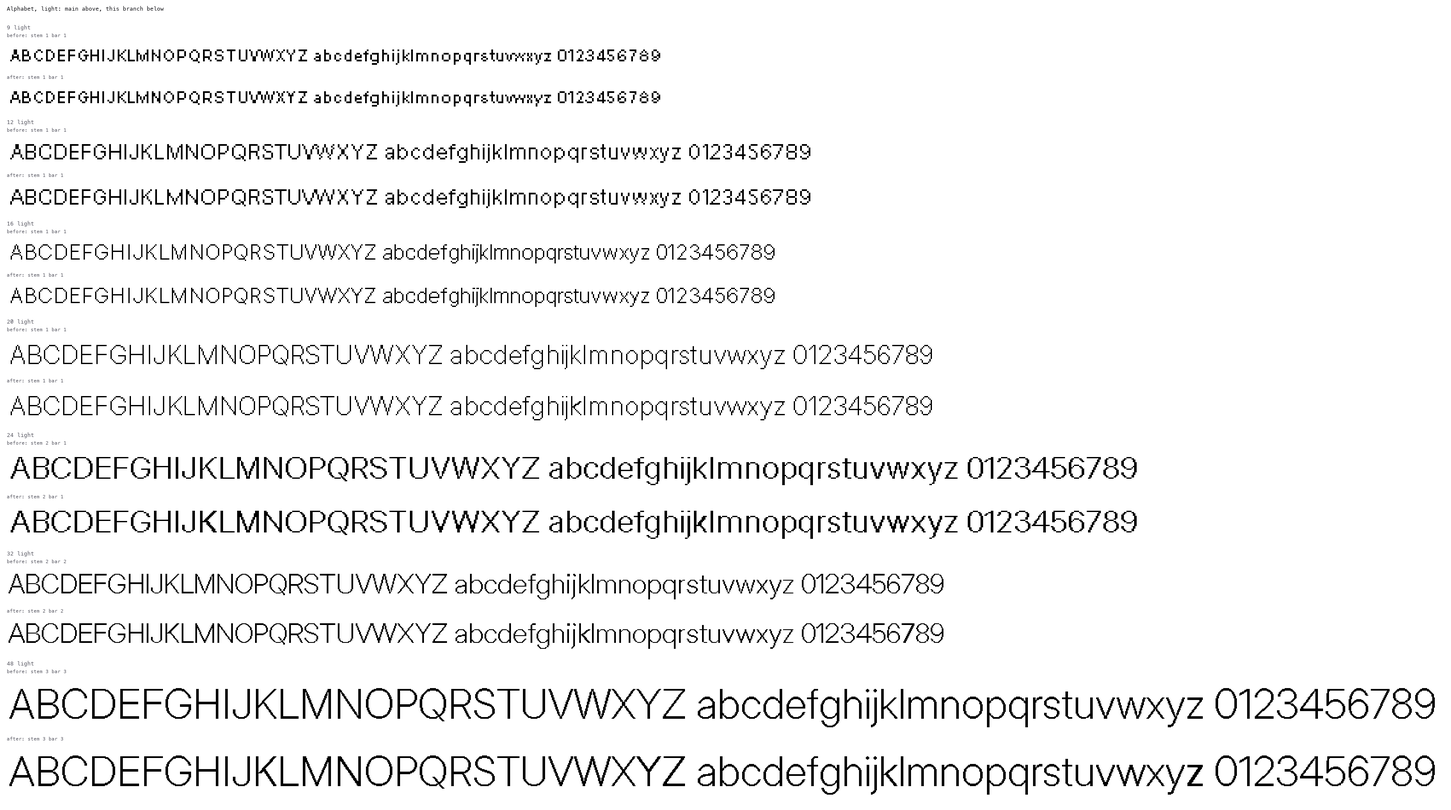
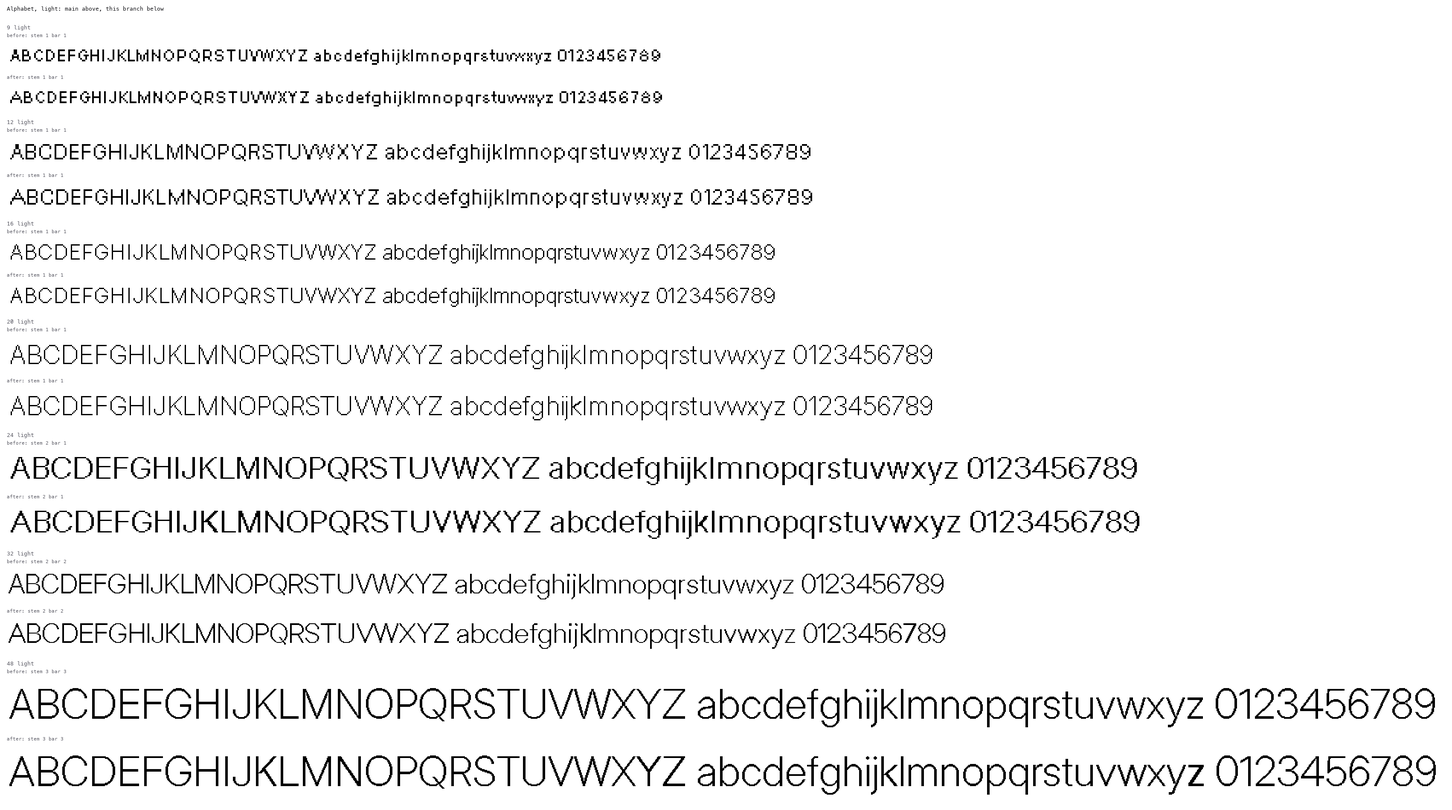
Make the A V v apex width change the importer default
A symmetric letter whose width minus its stroke is odd cannot have an
apex one stroke wide. --parity avv, which lets A, V and v change width
by a pixel there, is now the default; --parity off and --parity all
remain. W, w and M keep their widths: letting them change removed no
more doubled apexes on the trial grids and gave W 24 Regular an uneven
row.

Bold bars at 14 to 16 stay at the stem. The rule is unchanged.

The measures, sheets and proofs under experiments/straight-diagonals
are those of the regenerated drawings in the next commit. proof.py
takes several lines of text. The research note and docs/design.md
record the two decisions, the spacing measures, and that / and \ have
the side bearings they have on main.

diff --git a/experiments/straight-diagonals/proof.py b/experiments/straight-diagonals/proof.py
@@ -2,7 +2,8 @@
 
     .venv/bin/python experiments/straight-diagonals/proof.py \\
         --fonts before=PATH/build after=build --sizes 9,12,16,20,24,32,48 \\
-        --out experiments/straight-diagonals/img/proof-1x.png [--scale 4]
+        --out experiments/straight-diagonals/img/proof-1x.png [--scale 4] \\
+        [--text LINE [LINE ...]]
 
 Each `build` directory holds IntegerSans-VF.ttf and display/IntegerSansDisplay-VF.ttf;
 sizes of 25 and up come from the display family. Unhinted, as scripts/check.py
@@ -51,7 +52,7 @@ def main():
     ap.add_argument('--fonts', nargs='+', required=True)
     ap.add_argument('--sizes', default='9,12,16,20,24,32,48')
     ap.add_argument('--weights', default='light,regular,bold')
-    ap.add_argument('--text', default=TEXT)
+    ap.add_argument('--text', nargs='+', default=[TEXT], help='one or more lines; each is set from every font')
     ap.add_argument('--scale', type=int, default=1)
     ap.add_argument('--out', required=True)
     opt = ap.parse_args()
@@ -59,23 +60,24 @@ def main():
     for size in [int(s) for s in opt.sizes.split(',')]:
         for w in opt.weights.split(','):
             rows.append(f'{size} {w}')
-            for f in opt.fonts:
-                label, build = f.split('=', 1)
-                path = os.path.join(build, 'IntegerSans-VF.ttf') if size <= 24 else os.path.join(build, 'display', 'IntegerSansDisplay-VF.ttf')
-                face = freetype.Face(path)
-                face.set_var_design_coords((float(size), float(WGHT[w])))
-                face.set_pixel_sizes(0, size)
-                ink, gray = line(face, opt.text, size)
-                grays += int(gray.sum())
-                im = lib.plain(ink | gray, opt.scale)
-                if gray.any():
-                    px = im.load()
-                    for y, x in zip(*np.where(np.pad(gray, 2))):
-                        for dy in range(opt.scale):
-                            for dx in range(opt.scale):
-                                px[int(x) * opt.scale + dx, int(y) * opt.scale + dy] = (220, 0, 0)
-                rows.append([(label, im)])
-    print(lib.sheet(rows, opt.out, title=f'{opt.text!r} from the built fonts, FreeType unhinted, {opt.scale}x'))
+            for text in opt.text:
+                for f in opt.fonts:
+                    label, build = f.split('=', 1)
+                    path = os.path.join(build, 'IntegerSans-VF.ttf') if size <= 24 else os.path.join(build, 'display', 'IntegerSansDisplay-VF.ttf')
+                    face = freetype.Face(path)
+                    face.set_var_design_coords((float(size), float(WGHT[w])))
+                    face.set_pixel_sizes(0, size)
+                    ink, gray = line(face, text, size)
+                    grays += int(gray.sum())
+                    im = lib.plain(ink | gray, opt.scale)
+                    if gray.any():
+                        px = im.load()
+                        for y, x in zip(*np.where(np.pad(gray, 2))):
+                            for dy in range(opt.scale):
+                                for dx in range(opt.scale):
+                                    px[int(x) * opt.scale + dx, int(y) * opt.scale + dy] = (220, 0, 0)
+                    rows.append([(label, im)])
+    print(lib.sheet(rows, opt.out, title=f"{' | '.join(opt.text)} from the built fonts, FreeType unhinted, {opt.scale}x"))
     print('gray pixels:', grays)
 
 

diff --git a/scripts/import-inter.py b/scripts/import-inter.py
@@ -38,8 +38,9 @@ is drawn from it:
   round     a round stroke is the stem at its sides and the bar at its top
             and bottom; the erosion takes it down to those.
 
---parity avv|all lets A V v (or those and W w M) change width by a pixel so
-an apex is exactly one stroke wide; it is off by default.
+A V v change width by a pixel where that makes the apex exactly one stroke
+wide (--parity avv, the default). --parity all lets W w M do the same;
+--parity off keeps every width.
 """
 import argparse
 import collections
@@ -73,8 +74,8 @@ args.add_argument('--weights', default='light,regular,bold')
 args.add_argument('--charset', default=os.path.join(HERE, '..', 'charset.txt'))
 args.add_argument('--out', default=os.path.join(HERE, '..', 'glyphs'))
 args.add_argument('--no-derive', action='store_true', help='skip the derivation stage (shared parts, accents)')
-args.add_argument('--parity', default='off', choices=('off', 'avv', 'all'),
-                  help='let A V v (avv) or A V v W w M (all) change width by a pixel for an apex one stroke wide')
+args.add_argument('--parity', default='avv', choices=('off', 'avv', 'all'),
+                  help='let A V v (avv, the default) or A V v W w M (all) change width by a pixel for an apex one stroke wide; off keeps every width')
 args.add_argument('--no-redraw', action='store_true', help='skip the fixed-step redraw of the diagonal letters')
 args.add_argument('--no-bars', action='store_true', help="leave the bars at the source's own thickness")
 opt = args.parse_args()

diff --git a/docs/research/2026-11-26-straight-diagonals.md b/docs/research/2026-11-26-straight-diagonals.md
@@ -175,16 +175,16 @@ Ranked after those: (v) as a cheap partial step if the heavier diagonals are acc
 
 ## Outcome
 
-Built into the importer after the research above: option (i) as a stage after the erosion (`scripts/diagonals.py`), a stroke table per instance, and option (ii) as `--parity avv|all`, off by default. All 42 grids were regenerated with parity off. Numbers compare `main` at 9eb8f34 with the regenerated drawings.
+Built into the importer after the research above: option (i) as a stage after the erosion (`scripts/diagonals.py`), a stroke table per instance, and option (ii) as `--parity`, with `avv` (A, V, v only) the default. All 42 grids were regenerated with it. Numbers compare `main` at 9eb8f34 with the regenerated drawings; where a third number is given it is the same redraw with parity off, the state of this branch before the default was chosen.
 
 ### What was built
 
-- Redraw. `A V v W w X x Y y K k M N Z z 7 / \` are drawn again from their strokes after the erosion. Stroke ends, bar rows and feet come from the hinted render. 2083 drawings were redrawn. In 52 the redraw was refused and the eroded drawing stayed.
+- Redraw. `A V v W w X x Y y K k M N Z z 7 / \` are drawn again from their strokes after the erosion. Stroke ends, bar rows and feet come from the hinted render. 2085 drawings were redrawn. In 52 the redraw was refused and the eroded drawing stayed.
 - A redraw is taken only when it is one piece, fills the same box, keeps the same counters, is no lighter, and is no less straight than the eroded drawing. That last test is what keeps K from getting worse.
 - `<` and `>` are not redrawn. The recipe was built and removed: it made `<` 24 Regular less even than the erosion does.
 - Diagonal thickness. A stroke leaning s columns a row is stamped stem × √(1 + s²) wide along the row, in whole pixels and never under the stem, so it is as thick across as a stem. Two strokes that cross (X, x) may be 0.6 px thinner across.
 - Bars. Bold bars equal the stem where x-height ≥ 3 × stem + 2 × max(1, stem − 1): three bars and two counters, each counter at least a row and at least the bar less one. That holds at 14, 15 and 16 rows only, where the bar goes from 1 to 2 px. At 7 to 13 the counters of e, a, s would close. From 17 up the rule does not hold either, and the bar is the source's own, one under the stem (two under at 33 to 36).
-- Parity. With `--parity avv`, A, V and v change width by 1 px when width minus stroke is odd. With `--parity all`, W, w and M may too, but only when no stroke gets thinner for it.
+- Parity. A, V and v change width by 1 px when width minus stroke is odd, so the apex is one stroke wide. This is `--parity avv`, the default. With `--parity all`, W, w and M may too, but only when no stroke gets thinner for it. `--parity off` keeps every width.
 
 ### Straightness
 
@@ -193,26 +193,38 @@ Built into the importer after the research above: option (i) as a stage after th
 | | edges | bent | | kinks | uneven | back | thin rows | drawings with a bent edge |
 |---|---|---|---|---|---|---|---|---|
 | main | 1270 | 418 | 32.9% | 88 | 150 | 21 | 445 | 179 |
-| this branch | 1241 | 140 | 11.3% | 20 | 16 | 3 | 22 | 68 |
+| this branch | 1243 | 140 | 11.3% | 20 | 16 | 3 | 22 | 68 |
 
 All 42 grids, 2520 drawings:
 
 | | edges | bent | | kinks | uneven | back | thin rows | drawings with a bent edge |
 |---|---|---|---|---|---|---|---|---|
 | main | 6468 | 3157 | 48.8% | 502 | 1048 | 75 | 3264 | 1296 |
-| this branch | 6295 | 971 | 15.4% | 59 | 174 | 7 | 58 | 434 |
+| this branch | 6297 | 971 | 15.4% | 59 | 174 | 7 | 58 | 434 |
+
+Parity changes none of these counts: with it off the rows are the same but for the edge totals (1241 and 6295).
 
 Bent edges by letter on the ten grids, main then this branch: A 30, 0. V 28, 0. v 16, 0. W 52, 2. w 34, 2. X 24, 0. x 28, 4. Y 10, 0. y 36, 19. K 7, 0. k 6, 3. M 26, 0. N 10, 0. Z 12, 9. z 9, 6. 7 2, 1. `/` 0, 0. `\` 0, 0. `<` 39, 43. `>` 49, 51.
 
 - 94 of the 140 bent edges left on the ten grids are `<` and `>`, which are not redrawn. They are 4 and 2 worse than main. I did not trace which sizes.
 - y keeps a bend where the stroke meets the hook. Z and z keep some where the diagonal meets the bars.
-- The audit from `plan-hand-drawn`, printable ASCII, 11,844 drawings: hard kinks 923 to 104, diagonal glyphs with uneven steps 1080 to 223, N Z z not point-symmetric 283 to 173.
+- The audit from `plan-hand-drawn`, printable ASCII, 11,844 drawings: hard kinks 923 to 104, diagonal glyphs with uneven steps 1080 to 229 (223 with parity off), N Z z not point-symmetric 283 to 173.
 
 ### Doubled apex
 
-End row of A, V, v wider than a leg, of 378 drawings: 202 on main, 190 with parity off. Parity off does not fix it. On the eight grids of the parity sheets (9, 10, 12, 16, 20, 24, 32, 48), of 72: 32 with parity off, 5 with `avv` or `all`. The 5 are at 7 to 12 rows.
+End row of A, V, v wider than a leg, of 378 drawings (42 grids, three weights, `compare.py`):
 
-Cost on those eight grids: `avv` changes 105 advances, all 1 px wider (A 13, V 5, v 9, and the six accented A 13 each). `all` changes 118 (those, and W 7 wider and 2 narrower, w 4 wider).
+| | all | Light | Regular | Bold | A | V | v |
+|---|---|---|---|---|---|---|---|
+| main | 202 | 65 | 63 | 74 | 72 | 61 | 69 |
+| redraw, parity off | 190 | 67 | 61 | 62 | 63 | 60 | 67 |
+| this branch (`avv`) | 24 | 7 | 7 | 10 | 4 | 6 | 14 |
+
+The redraw alone does not fix it; the width change does. The 24 left: v at 7, 8 and 11 in every weight and at 13 and 14 Light and Regular, V at 9 and 12 Light and Regular, A at 8 and 9 Bold, and in Bold v 44, V 45, A 46, V 46, A 47. I did not trace why each of those stays.
+
+On the eight grids of the parity sheets (9, 10, 12, 16, 20, 24, 32, 48), of 72: 37 on main, 32 with parity off, 5 with `avv` or `all`.
+
+Cost: 171 of the 378 A V v drawings are 1 px wider (A 61, V 56, v 54), and so are the six accented A, 61 each: 537 advances, none narrower. The ink grows with the advance, so the side bearings of A, V and v are the same as on main in all 378. By band, A V v only: 9 at 7-12, 14 at 13-16, 38 at 17-24, 110 at 25-48. On the eight sheet grids `avv` changes 105 advances and `all` 118 (those, and W 7 wider and 2 narrower, w 4 wider).
 
 ### Weight consistency
 
@@ -221,49 +233,66 @@ Cost on those eight grids: `avv` changes 105 advances, all 1 px wider (A 13, V 5
 | | stem | bar | diagonal | round | density | diagonal under stem | bar under stem | any |
 |---|---|---|---|---|---|---|---|---|
 | main, Light | 49 | 153 | 96 | 302 | 73 | 96 | 221 | 621 |
-| branch, Light | 40 | 154 | 46 | 302 | 99 | 25 | 222 | 586 |
+| branch, Light | 34 | 154 | 46 | 302 | 104 | 25 | 222 | 586 |
 | main, Regular | 47 | 167 | 176 | 176 | 69 | 176 | 565 | 590 |
-| branch, Regular | 32 | 168 | 49 | 176 | 81 | 34 | 570 | 471 |
+| branch, Regular | 30 | 168 | 49 | 176 | 81 | 34 | 570 | 466 |
 | main, Bold | 36 | 165 | 322 | 212 | 47 | 322 | 983 | 700 |
-| branch, Bold | 29 | 154 | 100 | 208 | 53 | 65 | 898 | 487 |
+| branch, Bold | 29 | 154 | 104 | 208 | 48 | 65 | 899 | 486 |
 
 Glyphs with any deviating stroke, by size band, main then this branch:
 
 | | 7-12 | 13-16 | 17-24 | 25-48 |
 |---|---|---|---|---|
-| Light | 56, 50 | 11, 16 | 50, 57 | 504, 463 |
-| Regular | 56, 50 | 12, 15 | 67, 70 | 455, 336 |
-| Bold | 85, 82 | 20, 16 | 75, 58 | 520, 331 |
+| Light | 56, 53 | 11, 14 | 50, 54 | 504, 465 |
+| Regular | 56, 48 | 12, 13 | 67, 69 | 455, 336 |
+| Bold | 85, 80 | 20, 13 | 75, 58 | 520, 335 |
 
 - Diagonals thinner than the stem: 594 glyphs to 124.
 - Bold bars under the stem at 13 to 16: 115 glyphs to 30. The 30 are at 13 rows, which has no room.
 - Not improved: round strokes (690 to 686) and bars (485 to 476). The erosion still takes the top and bottom of a round letter a row under the bar at large sizes. That is most of the 25-48 column.
-- Worse: density deviations, 189 to 233. Light and Regular at 13 to 24 went up by a few glyphs in the `any` column too. A diagonal rounded up to a whole pixel is darker than its neighbours where it used to be lighter.
+- Worse: density deviations, 189 to 233 (Light 73 to 104, Regular 69 to 81, Bold 47 to 48). Light and Regular at 13 to 24 went up by a few glyphs in the `any` column too. A diagonal rounded up to a whole pixel is darker than its neighbours where it used to be lighter.
+- With parity off the `any` column was 586, 471 and 487 and density 99, 81 and 53: the width change moves a handful of glyphs each way and the totals stay (any 1544 to 1538, density 233 and 233).
 - Full tables per instance, with the worst glyphs named: `weight-main.txt` and `weight.txt`.
 
 ### Cost
 
-- 3880 of 29,862 drawings changed, 72,507 pixels. By band: 7-12 393, 13-16 868, 17-24 632, 25-48 1987. By weight: Light 1092, Regular 1106, Bold 1682. Ink 3,356,091 to 3,387,600 pixels.
-- 43 advances changed, none on a redrawn letter. They come from the bar refit at 14 to 16 Bold, where the hinter rounds a few letters another way (S, r, t, $, µ, æ, œ and accented forms). The list is in `compare.txt`.
-- Import time: 6 min 46 s for the 42 grids (405 s of user time; the last full run before this change took 412 s).
-- The audit also moved the wrong way on three lines: glyphs with a blob wider than the stroke 251 to 727, top-bottom asymmetric 75 to 114, one-pixel dents 2522 to 2683. I did not trace them. The joins of the redrawn letters (apex, vertex, where two strokes meet) are the likely place.
+- 3894 of 29,862 drawings changed, 85,671 pixels. By band: 7-12 393, 13-16 882, 17-24 632, 25-48 1987. By weight: Light 1099, Regular 1113, Bold 1682. Ink 3,356,091 to 3,387,346 pixels. (Parity off: 3880 drawings, 72,507 pixels.)
+- 580 advances changed. 537 are the parity change: A, V, v and the six accented A, 1 px wider. The other 43 are on no redrawn letter (28 wider, 15 narrower by 1 px). They come from the bar refit at 14 to 16 Bold, where the hinter rounds a few letters another way (S, r, t, $, µ, æ, œ and accented forms). The list is in `compare.txt`.
+- Import time: 6 min 46 s for the 42 grids (405 s with parity off, 406 s with `avv`; the last full run before this change took 412 s).
+- The audit also moved the wrong way on three lines: glyphs with a blob wider than the stroke 251 to 716, top-bottom asymmetric 75 to 114, one-pixel dents 2522 to 2687. I did not trace them. The joins of the redrawn letters (apex, vertex, where two strokes meet) are the likely place.
 
 ### Guarantees from the two earlier importer changes
 
 Unchanged: colon and semicolon built from the period and comma in 126 of 126 files, accented letters whose base differs 0 of 6174, 1 accent touching its letter (Ü at 7 rows), at most 1 row of ink above the ascent. Drawings above the ascent: 108 in 39 files before, 112 in 38 after. Drawings in more pieces than at 40 Regular: 84 before and after.
 
+### Spacing
+
+The width change moves advances, so the spacing was measured and looked at.
+
+- Side bearings. In all 378 A V v drawings both bearings are what they are on main. Where the letter is wider, the ink and the advance grew by the same pixel.
+- Least white gap on a shared row between A, V or v and each of A-Z a-z 0-9, both orders, 46,872 pairs over the 126 instances, main to this branch: same in 40,077, 1 px wider in 3493, 2 px wider in 52, 1 px closer in 3237, 2 or 3 px closer in 13. Pairs that touch: 1196 on main, 1302 here; 111 touch here and not on main: 76 at 7 to 12 rows, 33 in Bold above that (`kv` 16, `KV` 10), 2 in Regular. With parity off it was 1308 and 117: the closer pairs come from the redraw, whose legs run to the corners of the box, not from the width change.
+- From the built fonts (FreeType), the width in pixels of `AVAVA vavav WAVY wavy MIXTAPE KNOX Hamburgefonstiv`, main to this branch: 10 px 306 to 306 and Bold 336 to 336; 12 px 351 to 356, Bold 386 to 399; 16 px 456 to 456, Bold 474 to 480; 20 px 570 to 580, Bold 604 to 609; 24 px 674 to 684, Bold 710 to 718; 32 px 869 to 869, Bold 932 to 945. The 16 Bold figure includes the bar refit's advances.
+- In those lines `AV` and `VA` are 1 px further apart than on main at 12 Bold, 16, 20, 24 Regular and 32 Bold, and 1 px closer at 10 px, where no advance changed. `av` and `Av` are 1 px closer at 10 px (2 to 1) and `va`, `av` at 12 Bold (2 to 1). The font has no kerning, on main or here.
+
+`proof-1x.png` and `proof-4x.png` set that line and `Vav Ava Avo Tav` at 10, 12, 16, 20, 24 and 32 px, Regular and Bold, main above this branch. What I saw: from 12 px up the lines are a few pixels longer and read as evenly spaced as main's; I could not pick out a pair that looks wrong. At 10 px Bold the A V v pairs are visibly tighter than on main (`Vav Ava` nearly closes up inside the words); that is the redraw, and it is the same with parity off.
+
+### `/` and `\`
+
+Set side by side in the diagonal sheets, `/\` reads as one `Λ` at 12, 24 and 32 Bold. That is not from this branch. The advance and both side bearings of `/` and `\` are the same as on main in all 126 instances, in the drawings and in the built fonts at the six proof sizes. On main the two already touch at the top: 93 of the 126 instances have no white column between the top of `/` and the top of `\` (at 12, 24 and 32 Bold both bearings are 0), and the same 93 here. The source draws the slash with almost no side bearing. The one difference is 22 Light, where the least gap went from 2 to 1 with unchanged bearings. Nothing was changed for this.
+
 ### Pictures
 
-Main above, this branch below.
+Main above, this branch below. The diagonal, alphabet, bar and proof sheets show the committed drawings (parity `avv`). The three parity sheets are the trial on eight grids that the default was chosen from; their middle rows are the committed drawings at those grids.
 
 ![diagonal letters, bold](../../experiments/straight-diagonals/img/diag-bold.png)
 ![diagonal letters, regular](../../experiments/straight-diagonals/img/diag-regular.png)
 ![proof line from the built fonts, 4x](../../experiments/straight-diagonals/img/proof-4x.png)
 ![bold bars at 14 to 16](../../experiments/straight-diagonals/img/bars-bold.png)
+![the two proof lines from the built fonts, 1x](../../experiments/straight-diagonals/img/proof-1x.png)
 ![parity off, A V v, all: bold](../../experiments/straight-diagonals/img/parity-bold.png)
 ![parity off, A V v, all: regular](../../experiments/straight-diagonals/img/parity-regular.png)
 
-Also in `img/`: `diag-light.png`, `alpha-light.png`, `alpha-regular.png`, `alpha-bold.png`, `proof-1x.png`, `parity-light.png`.
+Also in `img/`: `diag-light.png`, `alpha-light.png`, `alpha-regular.png`, `alpha-bold.png`, `parity-light.png`.
 
 What I saw in them:
 
@@ -273,17 +302,25 @@ What I saw in them:
 - Bold at 14 to 16 is plainly heavier than on main: every bar doubled. The counters of e, a, s stay open. 16 Bold now has bars at the stem and 17 Bold has them one under.
 - At 32 and 48 Regular, X, x, K and k look a little heavier than on main. The measure says they are now at the stem, where they were under it.
 - With `--parity all`, W 24 Regular has one row a pixel wider than its neighbours near the feet.
+- `/\` reads as one `Λ` shape in the Bold diagonal sheet, on main's row as much as on this branch's.
+- These notes are from the sheets as drawn with parity off, apart from the last and the proofs under Spacing. After the regeneration with `avv` I looked at the two proofs and at the Regular and Bold diagonal sheets from 9 to 20: in Regular, A has a single apex at 9, 12, 16 and 20, and V at 9 and 12 keeps a foot two pixels wide, as the count above says.
+
+### Decided
+
+- Apex parity: A, V, v only (`--parity avv`), and it is the importer's default, not an option to remember. It takes the doubled apex from 190 of 378 to 24 (32 of 72 to 5 on the sheet grids). `all` removes no more on those grids and adds the uneven row in W 24 Regular. `off` and `all` stay as values of the flag.
+- Bold bars at 14 to 16 stay at the stem, 2 px. The request was for weight that is consistent across the characters of one size and weight, and a bar under the stem is the inconsistency inside those three instances. The rule is as built.
 
 ### Open
 
-- Parity: off, A V v only, or all. The sheets are `parity-light.png`, `parity-regular.png` and `parity-bold.png`.
-- Whether Bold bars at the stem at 14 to 16 is the wanted reading of "one pixel tall bolds". From 17 up the rule does not hold: the stem grows faster than the x-height.
 - Bold bars at 33 to 36 are 3 px against a 5 px stem, where 31, 32 and 37 are one under. Not changed here.
+- From 17 up the Bold bar is one under the stem: the rule does not hold there, because the stem grows faster than the x-height.
+- 10 px Bold is tight around A, V, v after the redraw (see Spacing).
 
 ### Not verified
 
 - A browser. The proof lines are FreeType renders of the built fonts, not Chrome or Safari.
-- Spacing after the 43 advance changes and under either parity mode: only the proof line and the sheets.
-- The parity modes were run on eight grids, not built into fonts, and not run through `scripts/check.py`.
-- I looked at the Bold and Regular diagonal sheets, the Bold and Regular alphabet sheets in part, the 4x proof to 16 px, the Bold bar sheet and the Bold parity sheet at 9 to 12. I did not look closely at the Light sheets, the 1x proof, or the sheets above 32 px in Bold.
+- Spacing beyond the two proof lines, the gap counts above and the sheets. No running text was set, and the 43 advances of the bar refit were not looked at one by one.
+- The 4x proof was looked at reduced (two to four screen pixels to one), the 1x proof at full size. After the regeneration I looked at the Regular and Bold diagonal sheets at 9 to 20 only. The Light sheets, the alphabet and parity sheets and the sizes above 20 were not looked at again.
+- Why 24 A V v drawings keep an apex wider than a leg.
+- `--parity all` and `--parity off` as built fonts: `all` was run on eight grids only; `off` was the previous state of this branch, built and checked then.
 - `weight.py` was not checked letter by letter against pictures. Its round and bar counts at 25 to 48 may include strokes it misreads.

diff --git a/docs/design.md b/docs/design.md
@@ -68,7 +68,7 @@ The source is a variable font with weight and optical-size axes, so a drawing pe
 4. **Pixel-perfect strokes at every thickness.** A monochrome rasterizer lights surplus pixels wherever a curve or diagonal crosses the grid: for a one-pixel stroke the "doubles" that pixel artists remove by hand, for a bold stroke rows of three where the stem is two. The importer renders the same hinted outline in grayscale and erodes: ink pixels are dropped in order of least coverage while they are not a stroke end, touch background orthogonally, their remaining ink neighbours stay one 8-connected group, and they are surplus to the thickness. Thickness is two numbers, the vertical stem *k* and the horizontal bar *h* (the source draws bars thinner; *h* is read off the rendered `H`), and which one applies depends on the stroke's local direction: on a steep section a pixel is surplus when its horizontal run exceeds *k*, on a shallow one when its vertical run exceeds *h*. Snapped stems and bars sit at full coverage and are never candidates, so they define the thickness and the curves are eroded down to meet them: at 20px Bold the `o` has three-pixel sides and a two-pixel crown.
 5. **Symmetry.** The hinter snaps each stem on its own and the thinning breaks ties by scan order, so the two sides of an `A` or `O` would take different staircases. Glyphs that the source draws mirror-symmetric (`A H I M O T U V W X Y i l o v w x 0 8` and the accented forms of those, left-right; `H I O X o x 0` and the paired brackets, top-bottom) are mirrored about their own ink box: a disagreeing pixel pair is set from its mean coverage, a crossing on an even width is filled, and a full-width bar facing an empty row, the `H` on an even cap, is the one thing left alone, because it cannot be centred. The accented `a` and `u` are not on the list: their base letters are not symmetric, and mirroring them turned every `ä â å ü û` into a letter of its own. The thinning then removes pixels in whole mirror orbits, and a symmetric glyph is centred in its advance.
 6. **One piece.** Clearing both pixels of a low-coverage pair can empty a row of a thin diagonal, and clearing a whole orbit can cut an apex, so neither pass may change how many pieces a drawing has. A mirror pass that would is redone as a union, inking every disagreeing pair; that also keeps a one-pixel dot off the axis, a colon's or a dieresis's, which the plain pass deleted. The thinning clears an orbit one pixel at a time and puts it back if a pixel's ink neighbours would fall into two groups, a test on the 3×3 ring around the pixel, so it costs nothing. A drawing still in more pieces than the outline has at four times the grid is joined at the best-covered clear pixel that touches two of them. The full import of grids 7 to 48 takes as long as it did, about seven minutes.
-7. **Straight diagonals.** The erosion tests one pixel at a time and cannot see a slope, so the diagonals it leaves take uneven steps: a run of three rows beside a run of one reads as a change of angle. After it, `A V v W w X x Y y K k M N Z z 7 / \` are drawn again from their strokes. Each stroke is a line between its two ends whose steps are as even as whole pixels allow, at the diagonal thickness from the stroke table; the ends, the bar rows and the feet are read from the hinted render, and one side of a symmetric letter is drawn and mirrored. Where a letter has no room for every stroke at full thickness, the inner strokes of `W` and `w` give way first. A redraw replaces the eroded drawing only when it is one piece, fills the same box, keeps the same counters, is no lighter, and is no less straight; otherwise the eroded drawing stays, which happens in 52 of 2135 cases, mostly at 7 to 10 rows. `<` and `>` are left to the erosion: their redraw was less even than what the erosion gives. The letter's width does not change. An option, `--parity avv` or `--parity all`, off by default, lets `A V v` (or those and `W w M`) change width by one pixel so that an apex is exactly one stroke wide: a symmetric letter whose width minus its stroke is odd cannot have one otherwise.
+7. **Straight diagonals.** The erosion tests one pixel at a time and cannot see a slope, so the diagonals it leaves take uneven steps: a run of three rows beside a run of one reads as a change of angle. After it, `A V v W w X x Y y K k M N Z z 7 / \` are drawn again from their strokes. Each stroke is a line between its two ends whose steps are as even as whole pixels allow, at the diagonal thickness from the stroke table; the ends, the bar rows and the feet are read from the hinted render, and one side of a symmetric letter is drawn and mirrored. Where a letter has no room for every stroke at full thickness, the inner strokes of `W` and `w` give way first. A redraw replaces the eroded drawing only when it is one piece, fills the same box, keeps the same counters, is no lighter, and is no less straight; otherwise the eroded drawing stays, which happens in 52 of 2137 cases, mostly at 7 to 10 rows. `<` and `>` are left to the erosion: their redraw was less even than what the erosion gives. A redrawn letter keeps its width, with one exception, the apex of `A V v`. A symmetric letter whose width minus its stroke is odd cannot have an apex one stroke wide: the point comes out doubled, two strokes side by side. Where that is so, `A`, `V` and `v` are drawn one pixel wider (or narrower, when that gives the more even steps; in the committed drawings it is always wider) and the advance moves with the ink, so both side bearings stay. That is `--parity avv`, the importer's default. It widens 171 of the 378 `A V v` drawings, and the six accented `A` with their base, and leaves 24 with an apex wider than a leg (202 before any redraw), at 7 to 14 rows and in Bold at 44 to 47; why those 24 stay was not traced. `--parity all` lets `W w M` change width the same way and is not the default: it removes no more doubled apexes on the grids it was tried on and gives `W` 24 Regular an uneven row near the feet. `--parity off` keeps every width.
 8. **Shared parts.** Letters that share a part are derived from one master after rendering, so a size cannot draw two versions of one bowl: `d` is `b` mirrored, `p` is `b`'s bowl flipped over `p`'s own descender, `q` is that `p` mirrored, `h` is `n`'s arch on `h`'s own stem, and `u` is `n` turned. Each derived letter keeps its own left bearing and its advance moves only by the change in ink width. Every accented Latin-1 letter is its base letter's drawing with the accent from its own render set over it, moved with the body's centre, so `é` is always `e`. `ì í î ï` are `i`'s stem with the accent in place of the dot; those four keep their own advance and the stem goes where they rendered it, because their accents are wider than `i`, the hinter gives them another advance than `i`'s at about half the sizes, and on `i`'s advance they ran into `f l b k d` twice as often. An accent with no clear row between it and its letter goes up one row, and may leave the line box to do it: by one row over the ascent and never more. One row is always enough, because the accent is whatever lies above the letter's top row, and it is never more than one row out, because the ascent is the tallest render. An accent that already has its clear row is not moved, so the rule changes nothing from 24 rows up. The drawings that end a row over the ascent are the capital accents at 7, 8 and 11 rows and the ring of `Å` at 9 to 23: 112 of them, in 38 of the 126 grid-and-weight files. The line box does not grow for them. A file's header gives the rows as `above`, and its bitmaps are that many rows taller than ascent plus descent. Set solid, such an accent lands in the bottom row of the line above, and under a descender there the two overlap: `Å` under `g` shares 4 to 11 pixels at 10, 13 and 16px. A raised accent with air around it reads better than one fused to its letter, and text set with accented capitals wants more than solid leading at these sizes anyway. A dieresis that came out in one piece takes the two dots of another letter of the same case at that size, when one has them. The dots follow the source the same way: it builds the colon from two periods and the semicolon from a period over the comma's drawing, so the importer assembles both from the rendered period and comma instead of rendering them again, and a comma or low quote that the hinter set wholly below the baseline is moved up to sit on it, unless it is a single row (7 rows, Light and Regular), which on the baseline would be a period. The rules sit in a table at the top of the stage, and each is checked against the source before it applies: rendered unhinted at 256 pixels, the transformed master must have the target's height to within half a grid pixel and lie within 0.2 grid pixels of its outline on average. The source draws its pairs alike to within 0.11 px at grids 7 to 42; at 43 to 48 the grid keeps the top overshoot row but flattens the bottom one, so `p` is not `b` flipped and `u` is not `n` turned, and those two rules are skipped there. Hand fixes in the overrides files still apply on top in the build; a fix to a master does not reach the letters derived from it.
 
 The output is the same text bitmap format as before, committed, with an overrides file per grid and weight for hand fixes that regeneration must not lose. The 42 grids from 7 to 48 rows take about seven minutes to render.
